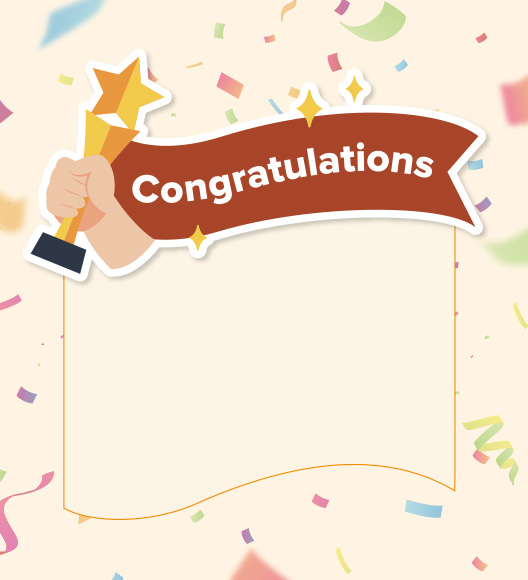
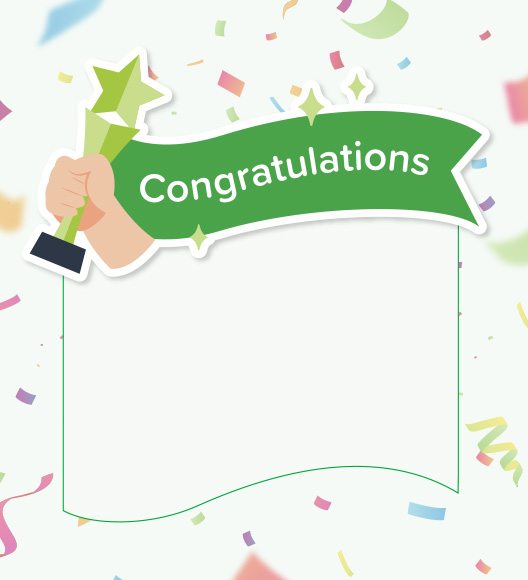
ecove en version update

diff --git a/ecove-en/index.html b/ecove-en/index.html
@@ -2,14 +2,14 @@
 <html lang="zh-tw">
 <head>
 	<meta charset="UTF-8">
-	<title>中鼎互動小遊戲</title>
+	<title>崑鼎互動小遊戲</title>
 	<link href="css/style.css" rel="stylesheet" type="text/css" />
 	<link href="https://fonts.googleapis.com/css?family=Noto+Sans+TC:300,400,500,700,900&display=swap" rel="stylesheet">
 </head>
 <body>
 	<div id="wrap">
 		<header>
-			<h1 class="sr-only">CTCI 中鼎</h1>
+			<h1 class="sr-only">ECOVE 崑鼎</h1>
 		</header>
 		<div class="main">
 			<div class="row row--reverse">
@@ -32,7 +32,7 @@
 					<div class="QA" style="display:none;">
 						<!-- 第一題 -->
 						<div class="question question--q1">
-							<div class="questionText">Recently, the so-called "ESG" criteria are widely adopted to measure a company's sustainability performance. What does the acronym ESG stand for?</div>
+							<div class="questionText">Recently, the so-called “ESG” aspects are widely adopted to measure sustainable performance of companies.What does the acronym ESG stand for?</div>
 							<div class="option">
 								<ul class="optionBtn">
 									<li class="optionBtn-item"><a href="javascript:;" class="optionBtn-item-link"><span class="sr-only">A</span></a></li>
@@ -48,7 +48,7 @@
 						</div>
 						<!-- 第二題 -->
 						<div class="question question--q2">
-							<div class="questionText">CTCI aligns its corporate operations with SDGs and fulfils CSR based on its core competencies. What does the acronym SDGs stand for?</div>
+							<div class="questionText">ECOVE aligns its corporate operations with SDGs and fulfils CSR based on its core competencies. What does the acronym SDGs stand for?</div>
 							<div class="option">
 								<ul class="optionBtn">
 									<li class="optionBtn-item"><a href="javascript:;" class="optionBtn-item-link"><span class="sr-only">A</span></a></li>
@@ -64,7 +64,7 @@
 						</div>
 						<!-- 第三題 -->
 						<div class="question question--q3">
-							<div class="questionText">What is CTCI's Sustainability vision?</div>
+							<div class="questionText">What is ECOVE’s Sustainable vision?</div>
 							<div class="option">
 								<ul class="optionBtn">
 									<li class="optionBtn-item"><a href="javascript:;" class="optionBtn-item-link"><span class="sr-only">A</span></a></li>
@@ -73,7 +73,7 @@
 									<li class="optionBtn-item"><a href="javascript:;" class="optionBtn-item-link"><span class="sr-only">D</span></a></li>
 								</ul>
 								<ul class="optionText w70">
-									<li class="optionText-item">Guard the Earth with constant innovation in green engineering</li>
+									<li class="optionText-item">The most reliable provider of industry-leading ‘resource cycling’ services</li>
 									<li class="optionText-item">Contribute money to charities</li>
 									<li class="optionText-item">Be a good neighbor for the community</li>
 									<li class="optionText-item">Advance economic development</li>
@@ -82,7 +82,7 @@
 						</div>
 						<!-- 第四題 -->
 						<div class="question question--q4">
-							<div class="questionText">To effectively attain ESG fulfillment goals,CTCI's Group Engineering Business,Group Resource Cycling Business,and Group Intelligent Solutions Business have set up their own ESG and Net Zero Task Forces.What working groups do these CSR Task Forces have for fostering sustainability-related actions?</div>
+							<div class="questionText">To effectively attain ESG fulfillment goals, ECOVE has set up CSR Task Forces. What working groups do these CSR Task Forces have for sustainability-related actions?</div>
 							<div class="option">
 								<ul class="optionBtn">
 									<li class="optionBtn-item"><a href="javascript:;" class="optionBtn-item-link"><span class="sr-only">A</span></a></li>
@@ -100,7 +100,7 @@
 						</div>
 						<!-- 第五題 -->
 						<div class="question question--q5">
-							<div class="questionText text--s">CTCI is recognized as an enterprise with exemplar practices in CSR fulfilment and promotion of sustainability topics in Taiwan. Which of the following is the sustainability/ESG award that the group has won?</div>
+							<div class="questionText text--s">ECOVE is recognized as an enterprise with exemplar practices in CSR fulfilment and promotion of sustainability topics in Taiwan. Which of the following is the sustainability/ESG award that the group has won?</div>
 							<div class="option">
 								<ul class="optionBtn">
 									<li class="optionBtn-item"><a href="javascript:;" class="optionBtn-item-link"><span class="sr-only">A</span></a></li>
@@ -110,8 +110,8 @@
 									<li class="optionBtn-item"><a href="javascript:;" class="optionBtn-item-link"><span class="sr-only">E</span></a></li>
 								</ul>
 								<ul class="optionText w96">
-									<li class="optionText-item">Incorporated in S&P's Dow Jones Sustainability  Indices for 6 consecutive years</li>
-									<li class="optionText-item">Top 10 Domestic Companies Sustainability Model Award, Taiwan Corporate Sustainability Awards (TCSA)</li>
+									<li class="optionText-item">Environmental Protection Honor Award</li>
+									<li class="optionText-item">National Sustainable Development Awards</li>
 									<li class="optionText-item">Top 5% in Corporate Governance Evaluation by TWSE and TPEx</li>
 									<li class="optionText-item">"Excellence in CSR Award" from Common Wealth Magazine</li>
 									<li class="optionText-item">All of the above</li>
@@ -120,7 +120,7 @@
 						</div>
 						<!-- 第六題 -->
 						<div class="question question--q6">
-							<div class="questionText text--s">To instill a corporate sustainability culture within the group, CTCI initiated the nation's first ESG promotion campaign. It is mandatory that every meeting, when attended by five people or above, shall have a briefing on ESG practices, so that colleagues and guests can have an in-depth understanding on the meaning and practices of ESG. What is the name of such ESG promotion campaign?</div>
+							<div class="questionText text--s">To instill a corporate sustainability culture within the group, ECOVE initiated the nation's first ESG promotion campaign. It is mandatory that every meeting, when attended by five people or above, shall have a briefing on ESG practices, so that colleagues and guests can have an in-depth understanding on the meaning and practices of ESG. What is the name of such ESG promotion campaign?</div>
 							<div class="option">
 								<ul class="optionBtn">
 									<li class="optionBtn-item"><a href="javascript:;" class="optionBtn-item-link"><span class="sr-only">A</span></a></li>
@@ -138,7 +138,7 @@
 						</div>
 						<!-- 第七題 -->
 						<div class="question question--q7">
-							<div class="questionText">As the best employer that offers brilliant workplace, CTCI created an online learning platform in 2020 that provides mandatory courses catering to the needs of each colleague's job position, as a way to facilitate employees' career development and nurture engineering talents. What is the name of this learning platform?</div>
+							<div class="questionText">As the best employer that offers brilliant workplace, Our created an online learning platform in 2020 that provides mandatory courses catering to the needs of each colleague’s job position, as a way to facilitate employees’ career development and nurture sustainable talents. What is the name of this learning platform?</div>
 							<div class="option">
 								<ul class="optionBtn">
 									<li class="optionBtn-item"><a href="javascript:;" class="optionBtn-item-link"><span class="sr-only">A</span></a></li>
@@ -156,7 +156,7 @@
 						</div>
 						<!-- 第八題 -->
 						<div class="question question--q8">
-							<div class="questionText">CTCI established CTCI Education Foundation in 2016 to help promote the nation's sustainable development. Which of the following sets of issues are CTCI EF's main concerns, based on which it carries out relevant activities?</div>
+							<div class="questionText">ECOVE puts ESG into practice through its core businesses, and there is a 5-year environmental education plan that ECOVE and CTCI Foundation cooperates on. The name of the plan is:</div>
 							<div class="option">
 								<ul class="optionBtn">
 									<li class="optionBtn-item"><a href="javascript:;" class="optionBtn-item-link"><span class="sr-only">A</span></a></li>
@@ -165,16 +165,16 @@
 									<li class="optionBtn-item"><a href="javascript:;" class="optionBtn-item-link"><span class="sr-only">D</span></a></li>
 								</ul>
 								<ul class="optionText w80">
-									<li class="optionText-item">Empower young talents and increase their knowledge on sustainability topics</li>
-									<li class="optionText-item">Corporate profit and employment</li>
-									<li class="optionText-item">IT education and academic support for children in rural areas</li>
-									<li class="optionText-item">Social safety and public health</li>
+									<li class="optionText-item">Step by Step: Factories for Sustainable Environmental Education</li>
+									<li class="optionText-item">Sustainability Engineering Camp for Kids</li>
+									<li class="optionText-item">Taiwan in My Eyes 120H</li>
+									<li class="optionText-item">Executive Yuan organized the Green Travel Environmental Education Facilities and Venues - Most Popular Choice campaign</li>
 								</ul>
 							</div>
 						</div>
 						<!-- 第九題 -->
 						<div class="question question--q9">
-							<div class="questionText">What does the logo <img src="images/img-epc.png" class="img--epc"/> stand for?</div>
+							<div class="questionText">What is ECOVE’s Slogan?</div>
 							<div class="option">
 								<ul class="optionBtn">
 									<li class="optionBtn-item"><a href="javascript:;" class="optionBtn-item-link"><span class="sr-only">A</span></a></li>
@@ -183,16 +183,16 @@
 									<li class="optionBtn-item"><a href="javascript:;" class="optionBtn-item-link"><span class="sr-only">D</span></a></li>
 								</ul>
 								<ul class="optionText w80">
-									<li class="optionText-item">The design concept for Net-Zero EPC logo is based on "number zero(0)" and "circular."</li>
-									<li class="optionText-item">By overlapping "0" with the letters "EPC", the logo symbolizes CTCI's commitment to a circular economy and net zero emissions in EPC projects</li>
-									<li class="optionText-item">The corporate color yellow (CTCI yellow) is used to convey CTCI's commitment resolve</li>
-									<li class="optionText-item">All of the above</li>
+									<li class="optionText-item">Every Resource Counts</li>
+									<li class="optionText-item">Most reliable</li>
+									<li class="optionText-item">Promote the global development of green power</li>
+									<li class="optionText-item">Generate renewable energy</li>
 								</ul>
 							</div>
 						</div>
 						<!-- 第十題 -->
 						<div class="question question--q10">
-							<div class="questionText">Together with benchmark companies in ESG, CTCI launched an initiative in Taiwan to support net zero actions. We are on the road to delivering net zero EPC projects. The goals of the actions are:</div>
+							<div class="questionText">ECOVE has jointly launched an initiative with Taiwan's sustainable benchmarking companies to lead What are the goals promoted？</div>
 							<div class="option">
 								<ul class="optionBtn">
 									<li class="optionBtn-item"><a href="javascript:;" class="optionBtn-item-link"><span class="sr-only">A</span></a></li>
@@ -200,8 +200,8 @@
 									<li class="optionBtn-item"><a href="javascript:;" class="optionBtn-item-link"><span class="sr-only">C</span></a></li>
 								</ul>
 								<ul class="optionText w80">
-									<li class="optionText-item">Pledge to achieve zero carbon emissions for the HQ</li>
-									<li class="optionText-item">Pledge to achieve zero carbon emissions for the HQ, office premises, and project sites in 2050.</li>
+									<li class="optionText-item">Pledge to achieve zero carbon emissions for the HQ and office premises in 2030</li>
+									<li class="optionText-item">Pledge to achieve zero carbon emissions for the HQ, office premises, and project sites in 2050</li>
 									<li class="optionText-item">All of the above</li>
 								</ul>
 							</div>
@@ -211,60 +211,60 @@
 					<div class="fail" style="display:none;">
 						<!-- 第一題 style="display: block;" -->
 						<div class="failAns failAns--q1">
-							<div class="failQuestionText">Recently, the so-called "ESG" criteria are widely adopted to measure a company's sustainability performance. What does the acronym ESG stand for?</div>
+							<div class="failQuestionText">Recently, the so-called "ESG" aspects are widely adopted to measure sustainable performance of companies. What does the acronym ESG stand for?</div>
 							<div class="rightAns">B. Environmental, Social & (Corporate) Governance</div>
 						</div>
 						<!-- 第二題-->
 						<div class="failAns failAns--q2">
-							<div class="failQuestionText">CTCI aligns its corporate operations with SDGs and fulfils CSR based on its core competencies. What does the acronym SDGs stand for?</div>
+							<div class="failQuestionText">ECOVE aligns its corporate operations with SDGs and fulfils CSR based on its core competencies. What does the acronym SDGs stand for?</div>
 							<div class="rightAns">A. Sustainable Development<br/>Goals</div>
 						</div>
 						<!-- 第三題-->
 						<div class="failAns failAns--q3">
-							<div class="failQuestionText failQuestionText--center">What is CTCI's Sustainability vision?</div>
-							<div class="rightAns rightAns">A. Guard the Earth with constant innovation in green<br/>engineering</div>
+							<div class="failQuestionText failQuestionText--center">What is ECOVE’s Sustainable vision?</div>
+							<div class="rightAns rightAns">A. The most reliable provider of industry-leading ‘resource<br/>cycling' services</div>
 						</div>
 						<!-- 第四題-->
 						<div class="failAns failAns--q4">
-							<div class="failQuestionText">To effectively attain ESG fulfillment goals,CTCI's Group Engineering Business,Group Resource Cycling Business, and Group Intelligent Solutions Business have set up their own ESG and Net Zero Task Forces.What working groups do these CSR Task Forces have for fostering sustainability-related actions?</div>
+							<div class="failQuestionText">To effectively attain ESG fulfillment goals, ECOVE has set up CSR Task Forces. What working groups do these CSR Task Forces have for sustainability-related actions?</div>
 							<div class="rightAns rightAns--center">D. All of the above</div>
 						</div>
 						<!-- 第五題-->
 						<div class="failAns failAns--q5">
-							<div class="failQuestionText">CTCI is recognized as an enterprise with exemplar practices in CSR fulfilment and promotion of sustainability topics in Taiwan. Which of the following is the sustainability/ESG award that the group has won?</div>
+							<div class="failQuestionText">ECOVE is recognized as an enterprise with exemplar practices in CSR fulfilment and promotion of sustainability topics in Taiwan. Which of the following is the sustainability/ESG award that the group has won?</div>
 							<div class="rightAns rightAns--center">E. All of the above</div>
 						</div>
 						<!-- 第六題-->
 						<div class="failAns failAns--q6">
-							<div class="failQuestionText w70">To instill a corporate sustainability culture within the group, CTCI initiated the nation's first ESG promotion campaign. It is mandatory that every meeting, when attended by five people or above, shall have a briefing on ESG practices, so that colleagues and guests can have an in-depth understanding on the meaning and practices of ESG. What is the name of such ESG promotion campaign?</div>
+							<div class="failQuestionText w70" style="line-height: 1.4;">To instill a corporate sustainability culture within the group, ECOVE initiated the nation's first ESG promotion campaign.It is mandatory that every meeting, when attended by five people or above,shall have a briefing on ESG practices,so that colleagues and guests can have an in-depth understanding on the meaning and practices of ESG. What is the name of such ESG promotion campaign?</div>
 							<div class="rightAns rightAns--center">A. ESG Moment</div>
 						</div>
 						<!-- 第七題-->
 						<div class="failAns failAns--q7">
-							<div class="failQuestionText w70">As the best employer that offers brilliant workplace, CTCI created an online learning platform in 2020 that provides mandatory courses catering to the needs of each colleague's job position, as a way to facilitate employees' career development and nurture engineering talents. What is the name of this learning platform?</div>
+							<div class="failQuestionText w70">As the best employer that offers brilliant workplace, Our created an online learning platform in 2020 that provides mandatory courses catering to the needs of each colleague’s job position, as a way to facilitate employees’ career development and nurture sustainable talents. What is the name of this learning platform?</div>
 							<div class="rightAns rightAns--center">A. CTCI University</div>
 						</div>
 						<!-- 第八題-->
 						<div class="failAns failAns--q8">
-							<div class="failQuestionText">CTCI established CTCI Education Foundation in 2016 to help promote the nation's sustainable development. Which of the following sets of issues are CTCI EF's main concerns, based on which it carries out relevant activities?</div>
-							<div class="rightAns">A. Empower young talents and increase their knowledge on sustainability topics</div>
+							<div class="failQuestionText">ECOVE puts ESG into practice through its core businesses, and there is a 5-year environmental education plan that ECOVE and CTCI Foundation cooperates on. The name of the plan is:</div>
+							<div class="rightAns">A. Step by Step: Factories for Sustainable Environmental Education</div>
 						</div>
 						<!-- 第九題-->
 						<div class="failAns failAns--q9">
-							<div class="failQuestionText">What does the logo <img src="images/img-epc.png" class="img--epc"/> stand for?</div>
-							<div class="rightAns rightAns--center">D. All of the above</div>
+							<div class="failQuestionText">What is ECOVE’s Slogan?</div>
+							<div class="rightAns rightAns--center">A. Every Resource Counts</div>
 						</div>
 						<!-- 第十題-->
 						<div class="failAns failAns--q10">
-							<div class="failQuestionText">Together with benchmark companies in ESG, CTCI launched an initiative in Taiwan to support net zero actions. We are on the road to delivering net zero EPC projects. The goals of the actions are:</div>
+							<div class="failQuestionText">ECOVE has jointly launched an initiative with Taiwan's sustainable benchmarking companies to lead the era towards net zero sustainability and start the road to circular economy. What are the goals promoted？</div>
 							<div class="rightAns rightAns--center">C. All of the above</div>
 						</div>
 						<!-- 返回按鈕-->
-						<a href="javascript:;" class="link--back"><span class="sr-only">返回</span></a>
+						<a href="javascript:;" class="link--back"><span class="sr-only">Back</span></a>
 					</div>
 					<!-- 完成遊戲 -->
 					<div class="success" style="display: none;">
-						<p class="text--success">WOW!!You are awesome!!<br/>Thank you for your understanding of CTCI</p>
+						<p class="text--success">WOW!!You are awesome!!<br/>Thank you for your understanding of ECOVE</p>
 						<a href="index.html" class="btn-backIndex">Back index</a>
 					</div>
 				</div>
@@ -284,7 +284,7 @@
 				<div class="square step step--s15"><span class="bgBlack"></span></div>
 			</div>
 		</div>
-		<footer>Copyright ©2022 CTCI All rights reserved.</footer>
+		<footer>Copyright ©2022 ECOVE All rights reserved.</footer>
 		
 	</div>
 	<script src="js/jquery-3.6.0.min.js"></script>

diff --git a/ecove-en/css/style.css b/ecove-en/css/style.css
@@ -67,7 +67,7 @@ img, a, object {
 }
 
 body {
-	background-color: #faa21b;;
+	background-color: #00b140;
 	padding: 0;
 	font-size: 16px;
 	font-family: "Noto Sans TC", Arial, Helvetica, Arial, Helvetica, sans-serif
@@ -84,7 +84,7 @@ body {
 header {
 	width: 100%;
 	height: 100px;
-	background: #c0c0c0 url(../images/logo.jpg) no-repeat 0 center;
+	background: #fff url(../images/logo.jpg) no-repeat 0 center;
 	position: relative;
 	margin-top: 30px
 }
@@ -103,7 +103,7 @@ header {
 .main{
 	width:100%;
 	overflow: hidden;
-	border: #a84529 1px solid;
+	border: #0a673a 1px solid;
 	box-sizing: border-box;
 }
 .row{
@@ -122,7 +122,7 @@ header {
 	position: relative;
 	background: url(../images/bgCenter.jpg) no-repeat 0 0;
 	background-size: 100%;
-	border: #a84529 1px solid;
+	border: #0a673a 1px solid;
 	box-sizing: border-box;
 }
 .column--reverse{
@@ -132,7 +132,7 @@ header {
 }
 .square{
 	position: relative;
-	border: 1px solid #a84529;
+	border: 1px solid #0a673a;
 	border-collapse: collapse;
 	box-sizing: border-box;
 }
@@ -211,7 +211,7 @@ header {
 	position: absolute;
 	top: 0;
 	left: 0;
-	background-color: #fff5e8;
+	background-color: #f5faf6;
 	padding: 40px;
 	box-sizing: border-box;
 }
@@ -324,13 +324,13 @@ header {
 }
 .btn-backIndex{
 	width: 24%;
-	background-color: #FCDE80;
+	background-color: #80d29d;
 	position: absolute;
 	top: 420px;
 	left: 190px;
 	padding: 5px;
 	color:#333;
-	font-size: 1.2rem;
+	font-size: 1rem;
 	font-weight: 500;
 	line-height: 1.8;
 	text-align: center;
@@ -349,7 +349,7 @@ header {
 	position: absolute;
 	top: 290px;
 	left: 90px;
-	color: #f08c00;
+	color: #4aa34a;
 	font-size: 1.8em;
 	font-weight: 700;
 }

diff --git a/ecove-en/js/index.js b/ecove-en/js/index.js
@@ -1,6 +1,6 @@
 $(function () {
     const questionSteps = [1, 3, 6, 7, 9, 11, 12, 14, 16, 18];
-    const answers = [2, 1, 1, 4, 5, 1, 1, 1, 4, 3];
+    const answers = [2, 1, 1, 4, 5, 1, 1, 1, 1, 3];
     let questionIndex = 0;
 
     $('.link--go').on('click', function () {

diff --git a/css/style.css b/css/style.css
@@ -67,7 +67,7 @@ img, a, object {
 }
 
 body {
-	background-color: #faa21b;;
+	background-color: #faa21b;
 	padding: 0;
 	font-size: 16px;
 	font-family: "Noto Sans TC", Arial, Helvetica, Arial, Helvetica, sans-serif

diff --git a/ctci-en/css/style.css b/ctci-en/css/style.css
@@ -67,7 +67,7 @@ img, a, object {
 }
 
 body {
-	background-color: #faa21b;;
+	background-color: #faa21b;
 	padding: 0;
 	font-size: 16px;
 	font-family: "Noto Sans TC", Arial, Helvetica, Arial, Helvetica, sans-serif

diff --git a/ecove/css/style.css b/ecove/css/style.css
@@ -67,7 +67,7 @@ img, a, object {
 }
 
 body {
-	background-color: #00b140;;
+	background-color: #00b140;
 	padding: 0;
 	font-size: 16px;
 	font-family: "Noto Sans TC", Arial, Helvetica, Arial, Helvetica, sans-serif
